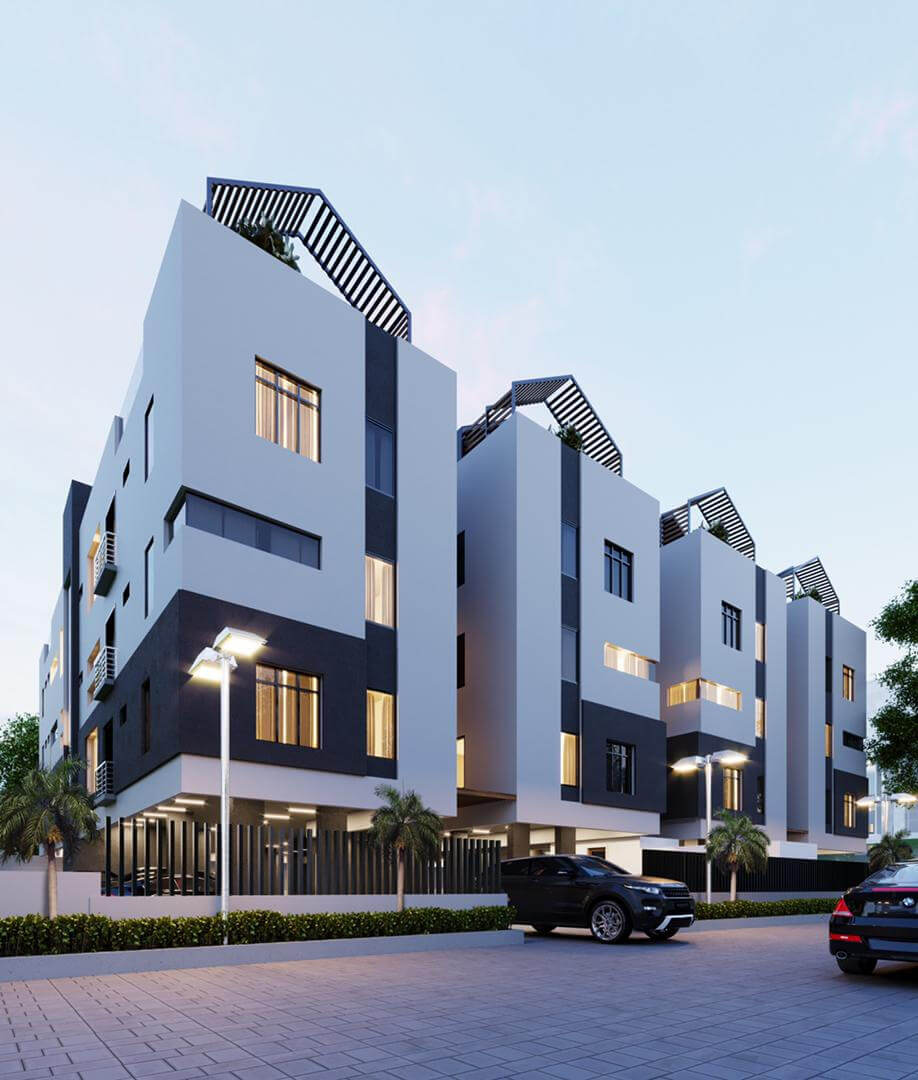
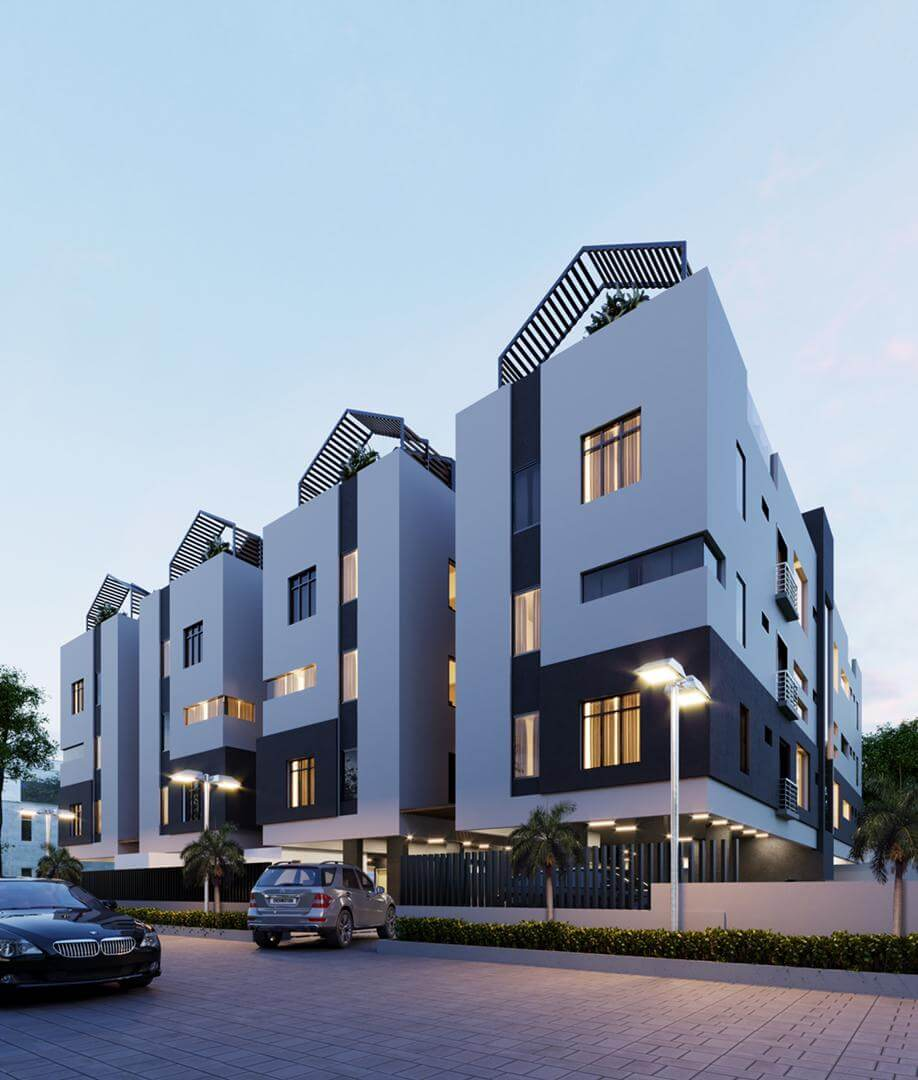
updated images and slight changes to the slider component.

diff --git a/src/components/ImageSlider.jsx b/src/components/ImageSlider.jsx
@@ -14,9 +14,9 @@ const ImageSlider = ({ images }) => {
   };
 
   const imageVariants = {
-    enter: { opacity: 0, x: 10, scale: 0.95, filter: "blur(8px)" }, // Initial state for new image
+    enter: { opacity: 0, x: 100, scale: 0.95, filter: "blur(8px)" }, // Initial state for new image
     center: { opacity: 1, x: 0, scale: 1, filter: "blur(0px)" }, // Image in center view
-    exit: { opacity: 0, x: -10, scale: 0.95, filter: "blur(8px)" }, // Image exiting
+    exit: { opacity: 0, x: -100, scale: 0.95, filter: "blur(8px)" }, // Image exiting
   };
 
   const swipePower = (offset, velocity) => {
@@ -25,10 +25,13 @@ const ImageSlider = ({ images }) => {
 
   return (
     <div className='flex relative  items-center w-full justify-between '>
-      <button onClick={previous} className='z-10 hidden sm:flex'>
+      <button
+        onClick={previous}
+        className='z-10 hidden hover:scale-125 duration-200 sm:flex'
+      >
         <IconCircleArrowLeft stroke={1.5} />
       </button>
-      <div className='relative image-slider pl-[2vw]  overflow-x-scroll  sm:hidden  h-max flex justify-start items-center'>
+      <div className='relative image-slider pl-[2vw]  overflow-x-scroll  hidden  h-max  justify-start items-center'>
         {images.map((item) => {
           return (
             <img
@@ -40,30 +43,31 @@ const ImageSlider = ({ images }) => {
           );
         })}
       </div>
-      <div className='relative hidden sm:flex w-full h-[354px] justify-center items-center'>
-        <AnimatePresence custom={activeImage}>
+      <div className='relative flex w-full h-[354px] justify-center items-center'>
+        <AnimatePresence mode='wait'>
           <motion.img
             key={activeImage}
             src={`/images/${images[activeImage]}.jpg`}
             alt={images[activeImage]}
             width={520}
             height={354}
-            className='object-cover text-center leading-[354px] h-[354px] rounded-lg shadow-lg'
+            className='sm:object-cover object-contain sm:w-[520px] w-[350px] text-center leading-[354px] h-[354px] rounded-lg shadow-lg'
             variants={imageVariants}
             initial='enter'
             animate='center'
             exit='exit'
-            transition={{
-              x: { type: "spring", stiffness: 100, damping: 20 },
-              opacity: { duration: 1 },
-              scale: { duration: 1.4 },
-              filter: { duration: 1 },
-            }}
+            transition={{ duration: 0.5 }}
+            // transition={{
+            //   x: { type: "spring", stiffness: 300, damping: 30 },
+            //   opacity: { duration: 0.5 },
+            //   scale: { duration: 0.7 },
+            //   filter: { duration: 0.5 },
+            // }}
             drag='x'
             dragConstraints={{ left: 0, right: 0 }}
             dragElastic={1.5}
             onDragEnd={(event, info) => {
-              const swipeConfidenceThreshold = 500;
+              const swipeConfidenceThreshold = 10000;
               const swipe = swipePower(info.offset.x, info.velocity.x);
 
               if (swipe < -swipeConfidenceThreshold) {
@@ -75,7 +79,10 @@ const ImageSlider = ({ images }) => {
           />
         </AnimatePresence>
       </div>
-      <button className='rotate-180 z-10 hidden sm:flex' onClick={next}>
+      <button
+        className='rotate-180 z-10 hidden hover:scale-125 duration-200 sm:flex'
+        onClick={next}
+      >
         <IconCircleArrowLeft stroke={1.5} />
       </button>
       {/* Navigation Dots */}

diff --git a/src/App.jsx b/src/App.jsx
@@ -49,7 +49,7 @@ function App() {
           />
           <ServiceBox
             side='left'
-            images={["house1", "house2", "house3"]}
+            images={["lounge", "lounge2"]}
             heading={"Rendering and Visualization"}
             paragraph={
               "Bring your architectural visions to life with high-quality 2D and 3D renderings, animations, AR/VR. Whether for real estate or construction, we create photorealistic visuals with immersive experiences that help you showcase your projects to clients or investors."
@@ -57,7 +57,7 @@ function App() {
           />
           <ServiceBox
             side={"right"}
-            images={["house", "house2", "house3"]}
+            images={["build3", "build4", "center"]}
             heading={"CAD and Drafting services"}
             paragraph={
               "You have done the heavy lifting of concept designs. Now you like to create engineering drawings. This is where we come in. We take away the boring task from off your desk while you focus on providing critical details that make your buildings work."
@@ -65,7 +65,7 @@ function App() {
           />
           <ServiceBox
             side='left'
-            images={["int1", "int2", "int3"]}
+            images={["fx1", "fx2", "view"]}
             heading={"AR / VR"}
             paragraph={
               "Immerse your clients in their future spaces with cutting-edge augmented and virtual reality experiences. Our AR/VR solutions provide interactive simulations that offer a realistic preview of your designs in a virtual environment."

diff --git a/src/components/Team.jsx b/src/components/Team.jsx
@@ -22,7 +22,10 @@ const Team = () => {
             City
           </p>
         </div>
-        <img src='/images/ndukwe.png' />
+        <img
+          className='object-contain w-[500px] h-[600px]'
+          src='/images/victor.jpg'
+        />
       </div>
       <div className='flex flex-col gap-12 sm:gap-0 mt-[5vh] sm:mt-[20vh] sm:flex-row-reverse items-center '>
         <div className=' flex sm:w-[65%] flex-col items-center'>
@@ -35,7 +38,10 @@ const Team = () => {
             served on the management of various AEC teams.
           </p>
         </div>
-        <img src='/images/jide.png' />
+        <img
+          className='object-contain w-[500px] h-[600px]'
+          src='/images/jide.jpg'
+        />
       </div>
     </section>
   );
